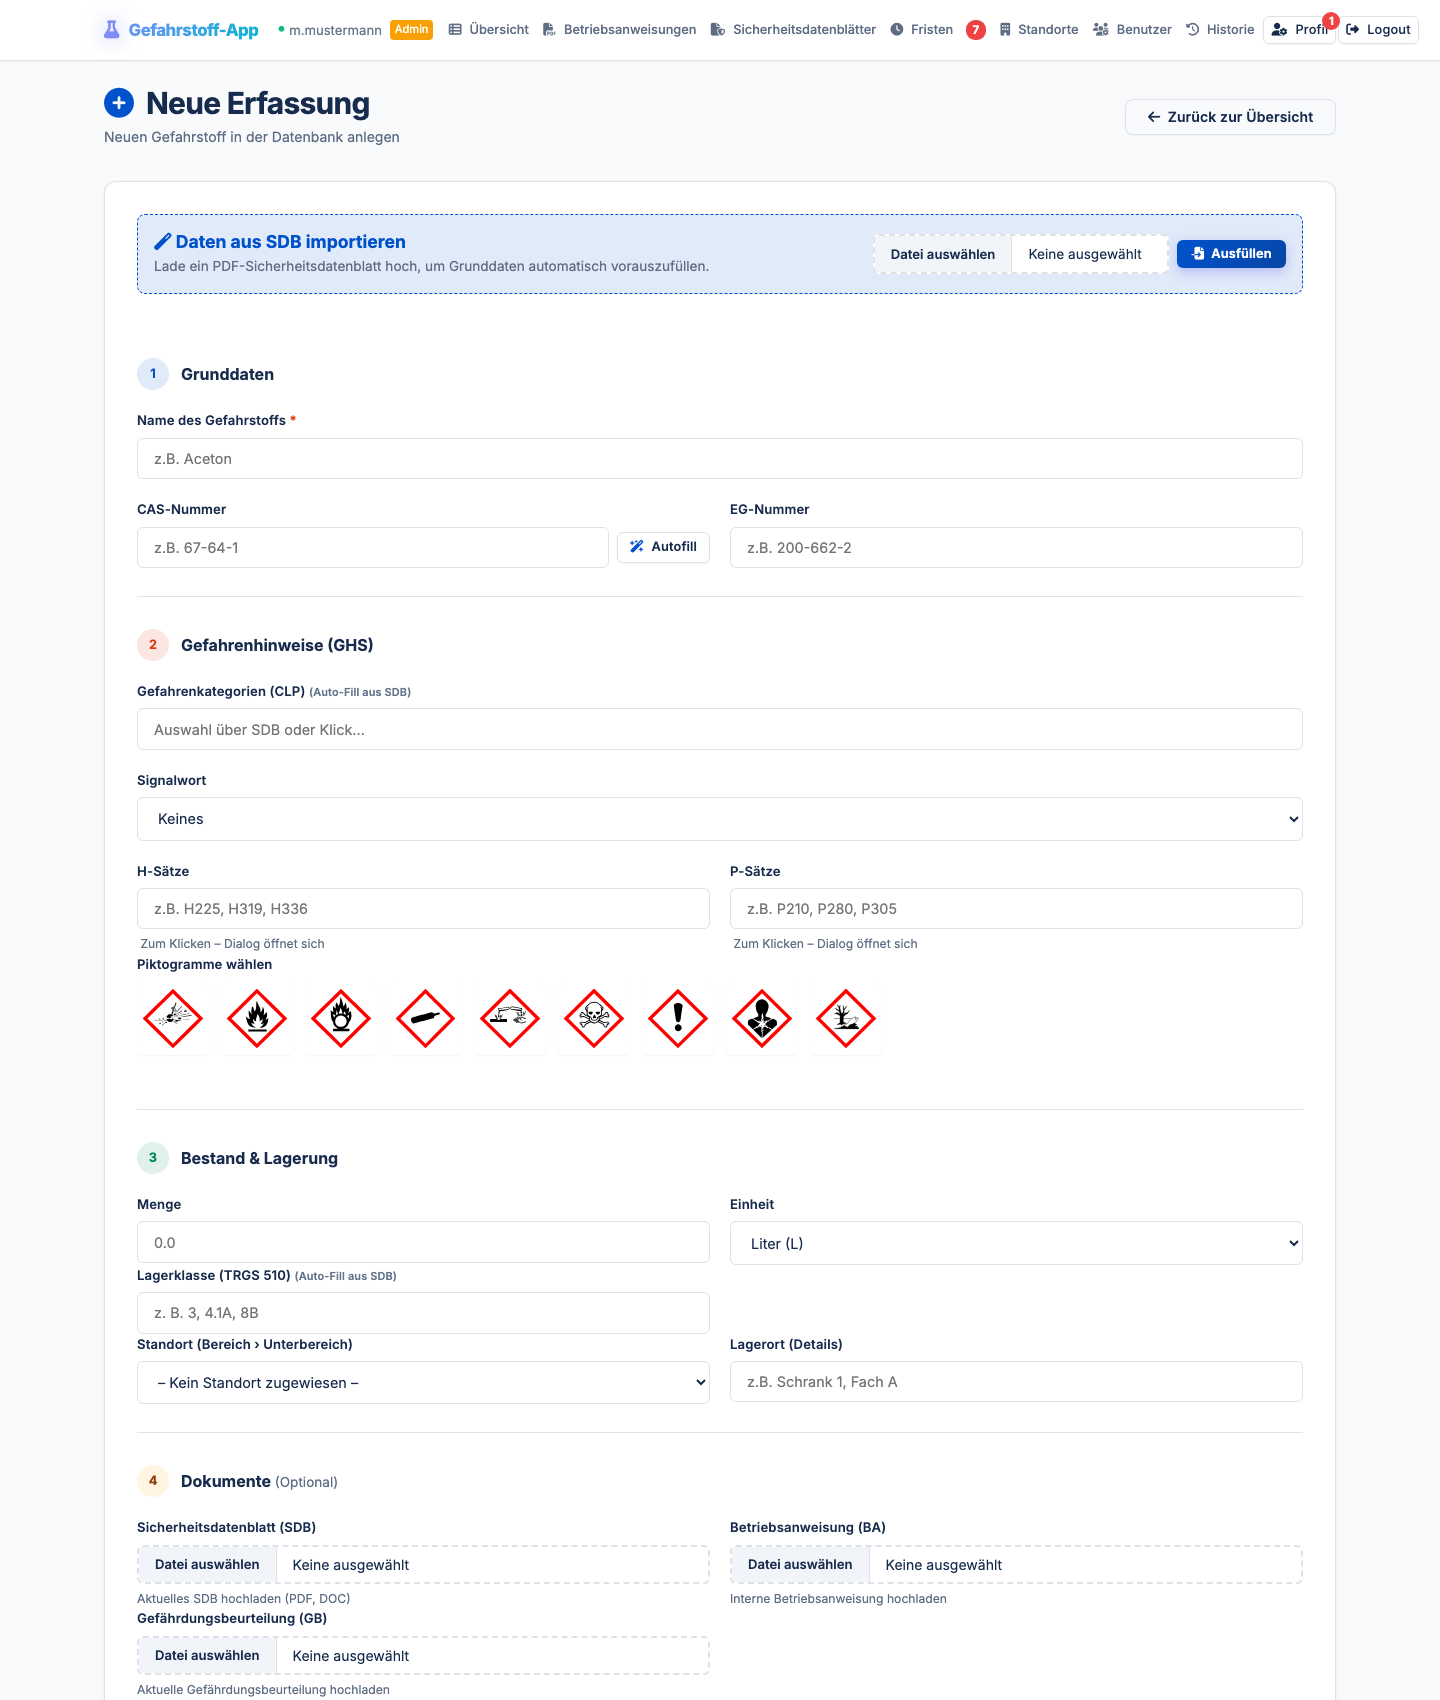
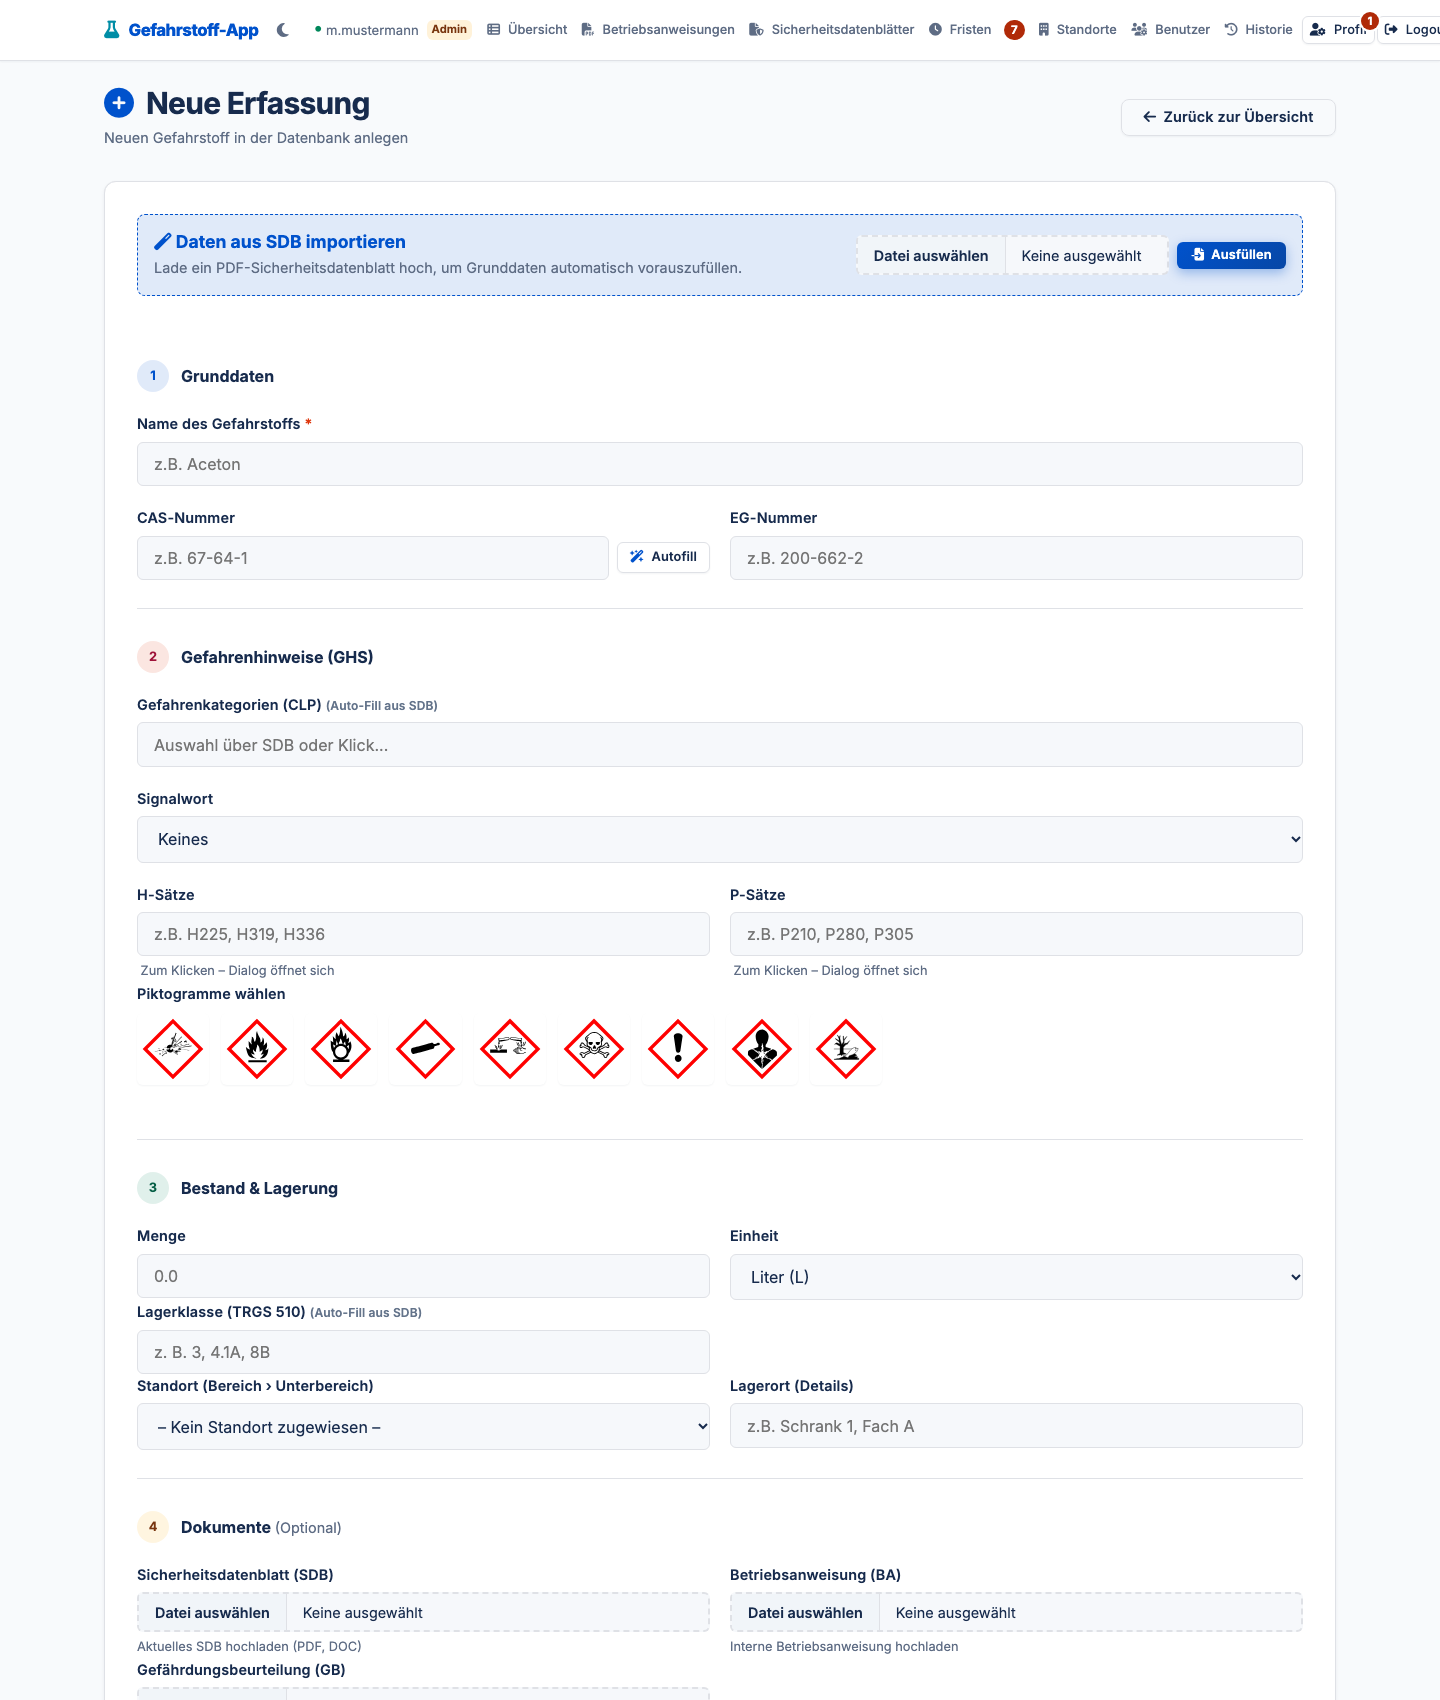
docs: Changelog und Handbuch auf v3.21-v3.23 nachgezogen
Die Arbeit seit v3.20 (27.09.) stand in keiner der beiden Dateien: die drei
Oberflaechen-Stufen und die Aussehens-Runde.

CHANGELOG.md, drei neue Eintraege oben:
- v3.21 Barrierefreiheit und Kohaerenz (Stufen 1+2): Sprungmarke, scope,
  Fokusringe, Tastaturbedienung der Piktogramm-Auswahl, --text-light 2,96:1
  -> 4,55:1; Inline-Stile 445 -> 12, eigene Farbwerte 49 -> 0; dabei vier
  nie definierte CSS-Variablen und die Klassen content-card/glass-card
  gefunden, die still wirkungslos waren.
- v3.22 Informationsarchitektur: eine Kennzahl, Filter- und Ansichtsleiste
  getrennt, eine Hauptaktion, Spaltenauswahl; Fristen-Kachel entfallen.
- v3.23 Aussehens-Runde: umschaltbarer Dunkelmodus (Druckansichten bleiben
  hell), der --primary-Fund des Kontrast-Checks (1,6:1), Zebra-Tabellen,
  aktiver Menuepunkt, 404/500 gestylt, Menue-Schwellen 1340/1750 ->
  1375/1785.

HANDBUCH.md: 3.1 (Dunkelmodus-Knopf, Schwelle 1375), 3.2 (die
Kennzahlen-Beschreibung war veraltet - die Kacheln gibt es nicht mehr),
8.2 (Kachel-Absatz) und die Versionsliste in 18 bis 3.23.

handbuch-bilder/: neu erzeugt - die Bilder zeigten die alte Oberflaeche
(Kachel, drei laute Knoepfe). Das Erzeugungsskript erzwingt jetzt den
Hell-Modus: base.html setzt data-theme per Script, und Headless-Chrome
meldet "dark" - sonst waeren die Handbuchbilder dunkel geworden.
06-betriebsanweisung.png bleibt unveraendert (Printseite).

Belege: 119 Tests gruen, DB-Pruefsumme unveraendert.

diff --git a/werkzeuge/handbuchbilder.py b/werkzeuge/handbuchbilder.py
@@ -23,6 +23,7 @@ Auge identisch. Wer keine solchen Diffs im Repo will, macht die Bilder nur
 dann neu, wenn sich die Oberfläche tatsächlich geändert hat.
 """
 import os
+import re
 import shutil
 import subprocess
 import sys
@@ -237,6 +238,13 @@ def aufnahmen_machen(m, aceton_id, lager_id, arbeitsverzeichnis):
         # Statische Dateien auf file:// umbiegen: die Seite wird aus einer
         # Datei geladen, nicht über den Server, sonst fehlen CSS und Schriften.
         html = antwort.get_data(as_text=True)
+        # Hell-Modus erzwingen. base.html setzt data-theme per Inline-Script aus
+        # localStorage bzw. der Systemvorliebe; Headless-Chrome meldet "dark" -
+        # die Handbuchbilder sollen aber die helle Oberfläche zeigen. Also das
+        # Script entfernen und das Attribut fest auf hell setzen.
+        html = re.sub(r"<script>\s*\(function \(\) \{.*?gsv_theme.*?\}\)\(\);\s*</script>",
+                      '', html, count=1, flags=re.S)
+        html = html.replace('<html lang="de">', '<html lang="de" data-theme="light">')
         html = html.replace('href="/static/', f'href="file://{REPO}/static/')
         html = html.replace('src="/static/', f'src="file://{REPO}/static/')
         quelle = os.path.join(arbeitsverzeichnis, f'{name}.html')

diff --git a/CHANGELOG.md b/CHANGELOG.md
@@ -2,6 +2,32 @@
 
 Alle nennenswerten Änderungen an diesem Projekt werden in dieser Datei dokumentiert.
 
+### v3.23 – Aussehens-Runde: Feinschliff und umschaltbarer Dunkelmodus (Oktober 2026)
+
+* **Der Dunkelmodus ist umschaltbar.** Ein Knopf in der Kopfzeile wechselt zwischen hell und dunkel; die Wahl liegt im Browser (`localStorage`) und übersteht das Neuladen. Ohne eigene Wahl folgt die Anwendung der Systemvorliebe. Der Modus wird **vor** dem Laden gesetzt (Inline-Script als erstes Element im `<head>`) — sonst blitzt beim Öffnen kurz die helle Fassung auf. Die Kopfzeile färbt auch die nativen Bedienelemente mit (Auswahlfelder, Kästchen, Scrollbalken).
+* **⚠ Die Druckansichten bleiben in beiden Modi hell.** Betriebsanweisung, Standortaushang und QR-Aushang sind Ausdrucke mit eigener, vorgegebener Gestaltung. Sie laden das Anwendungs-Stylesheet nicht und haben keinen Zugriff auf den Umschalter — das ist so gewollt.
+* **⚠ Ein Fund des Kontrast-Checks:** Das Blau der Anwendung (`--primary`) diente zugleich als Füllfarbe der Knöpfe und als Text- und Symbolfarbe. Im Dunkelmodus war der Text darauf **1,6:1** — praktisch unlesbar (der aktive Menüpunkt, das Öffnen-Symbol der Dokumentenlisten). Text und Rahmen zeigen jetzt auf ein eigenes Token, das im Dunkelmodus hell wird; die Füllung bleibt dunkel, damit weiße Knopfschrift lesbar bleibt.
+* **Zwei sichtbare Fehler behoben:** Der Zusammenlagerungshinweis in der Detailansicht stand als **Zeile** — Titel und Aufzählung nebeneinander statt untereinander. Und `--bg-subtle` war weiß wie eine Karte, sodass ein halbes Dutzend „getönter" Flächen unsichtbar war (Hinweisstreifen, die Kachel des aktiven Ansichtsknopfes, die Chips „zugewiesener Bereich"). Eine Glocke im Profil stand auf einer Klasse, die es nie gab.
+* **Feinschliff:** Tabellen haben ein Zebra-Muster, der aktuelle Menüpunkt ist markiert, ein deaktivierter Knopf sieht inaktiv aus. Die 404- und 500-Seite waren ungestyltes Fremd-Markup (Bootstrap-Klassen, die es im Projekt nirgends gibt und deren Icon-Schrift gar nicht geladen wird) und sind jetzt normale Leerzustände.
+* **⚠ Zwei Menü-Schwellen verschoben.** Der neue Knopf kostet rund 40 px in der Kopfzeile. Ohne Anpassung lief die Navigation bei 1340 und 1751 px über den Rand; die Schwellen stehen jetzt bei **1375 und 1785 px** (vorher 1340/1750).
+* **Aufgeräumt:** sieben nie benutzte oder doppelte Farbvariablen entfernt. `--info`, `--info-light` und `--gold` waren wertgleich mit einem Nachbarn — semantisch Verschiedenes sah dadurch identisch aus (zwei Abzeichentypen unterschieden sich nur im Namen).
+* **Nachgemessen:** kein waagerechter Überlauf von 320 bis 1920 px, auch an den neuen Schwellen; Kontrast im Dunkelmodus durchweg über 4,5:1; 119 Tests grün, Prüfsumme der Datenbank unverändert.
+
+### v3.22 – Informationsarchitektur der Startseite (Oktober 2026)
+
+* **Die Startseite wurde entzerrt.** Aus drei Kennzahl-Kacheln wurde **eine** — die anderen wiederholten nur, was die Kopfzeile ohnehin zeigt; „Standorte" war zudem falsch beschriftet (es zählte die *belegten* Unterbereiche). Die Zahlen stehen jetzt in der Unterzeile des Seitentitels.
+* **Filter und Ansicht getrennt:** Die Filter stehen links, die Ansichtssteuerung (Tabelle/Kacheln, Spaltenauswahl) rechts. Vorher war es umgekehrt — der Umschalter filtert nichts.
+* **Eine Hauptaktion:** Im Kopfbereich ist „Neuer Gefahrstoff" der einzige kräftige Knopf; Excel und PDF sind neutrale Umrissknöpfe geworden. Drei gleich laute Knöpfe sind keiner.
+* **Spaltenauswahl:** Sechs Spalten der Übersichtstabelle lassen sich ausblenden; „Name" bleibt immer sichtbar, weil sie den Link trägt. Die Wahl wird im Browser gemerkt. Damit lässt sich die Tabelle auch unter 1280 px ohne waagerechtes Scrollen lesen — bei 1000 px Breite geht der Überlauf von 156 auf 0 px.
+* **Die Fristen-Kachel ist wieder entfallen.** Sie führte zur Fristenliste, die als Menüpunkt in der Kopfzeile (mit Zähler) ohnehin erreichbar ist. Damit steht die Fristenzahl wieder an genau einer Stelle. (Der zugehörige Test prüft jetzt die Liste allein.)
+
+### v3.21 – Barrierefreiheit und Kohärenz der Oberfläche (September–Oktober 2026)
+
+* **Bedienbarkeit:** Sprungmarke „Zum Inhalt springen" als erstes Element, `scope="col"` an allen Tabellenköpfen, sichtbare Fokusringe für die Tastaturbedienung (`:focus-visible`), eine versteckte Beschriftung an jeder Tabelle. Die Piktogramm-Auswahl war mit der Tastatur **nicht** bedienbar (die Kästchen waren auf Größe 0 gesetzt) und ist es jetzt. Beschriftungen für Such- und Filterfelder. `--text-light` erreichte auf dem Seitengrund nur 2,96:1 und war als Text zu blass; es steht jetzt bei 4,55:1.
+* **Kohärenz:** Alle 14 Seiten von Inline-Stilen auf Klassen und Farbvariablen umgestellt — **445 → 12** (die verbliebenen sind Absicht: sie schalten `display` per JavaScript). Eigene Farbwerte in App-Seiten: **49 → 0**. Dreizehn Schriftgrößen wurden auf drei Stufen vereinheitlicht (der Tabellenkopf war mit 11,2 px zu klein).
+* **Dabei gefunden:** vier nie definierte Farbvariablen (`--dark`, `--glass-border`, `--bg-color`, `--text`) und mehrere nie definierte Klassen (`.content-card`, `.glass-card`, `.form-control`). Solche Deklarationen sind ungültig und fallen still weg — die Systemansicht stand dadurch als einzige Seite ohne Kartengestaltung auf dem Seitenhintergrund. Ebenso fehlten den Eingabetypen `date` und `url` in der globalen Feldregel, weshalb Datumsfelder im Browser-Standard erschienen.
+* **Nachgemessen:** kein waagerechter Überlauf von 320 bis 1920 px (vorher 125 px zwischen 320 und 600 px), für Admin- und Leser-Rolle getrennt.
+
 ### v3.20 – Produktionsserver in beiden Startwegen, Debugger standardmäßig aus (September 2026)
 
 * **⚠ Der Container startete den Entwicklungsserver.** `docker-entrypoint.sh` endete mit `exec flask run --host=0.0.0.0 --port=5000` — dem eingebauten Server von Flask. Waitress lag mit `run_prod.py` bereit, wurde aber von **keinem** Startweg aufgerufen. Beide zeigen jetzt dorthin: der Container über `exec python run_prod.py`, die native Aktualisierung (`update.sh`) über `FLASK_ENV=production nohup python run_prod.py`.

diff --git a/HANDBUCH.md b/HANDBUCH.md
@@ -76,19 +76,28 @@ ab:
 | **Historie** | Systemhistorie (nur Administrator) |
 | **Profil** | Eigenes Passwort, offene Freigaben |
 
-Auf schmalen Bildschirmen — auf dem Tablet oder Telefon unter etwa 1340 Pixel —
+Auf schmalen Bildschirmen — auf dem Tablet oder Telefon unter etwa 1375 Pixel —
 klappt die Navigation zu einem Menüknopf zusammen.
+
+**Hell und dunkel:** Rechts in der Kopfzeile sitzt ein kleiner Knopf mit einem
+Mond- (oder Sonnen-)Symbol. Er schaltet die Oberfläche zwischen der hellen und
+der dunklen Darstellung um; die Wahl wird im Browser gemerkt. Ohne eigene Wahl
+folgt die Anwendung der Einstellung Ihres Betriebssystems. **Ausdrucke sind
+davon nicht betroffen** — die Betriebsanweisung und der Standortaushang werden
+immer hell gedruckt.
 
 ### 3.2 Das Dashboard
 
-* **Kennzahlen:** Anzahl Gefahrstoffe, Anzahl Standorte und *veraltete SDBs*.
-  Die dritte Kachel ist anklickbar und führt zur Fristenliste.
+* **Kopfzeile:** Unter dem Seitentitel stehen die Zahl der Gefahrstoffe und die
+  Zahl der *belegten* Standorte. Die fälligen Fristen stehen im Menüpunkt
+  **Fristen** (mit Zähler) und in der Fristenliste.
 * **Standort-Spalte links:** die Hierarchie Ihrer Bereiche. Ein Klick filtert die
   Tabelle auf diesen Standort.
 * **Suche und Filter:** Suchfeld (Name, CAS-Nummer, H-Sätze), Filter nach
   Signalwort und Piktogrammen.
 * **Zwei Ansichten:** Tabelle (Liste) und Kacheln — die Wahl wird im Browser
-  gemerkt.
+  gemerkt. In der Tabellenansicht lassen sich über **Spalten** einzelne Spalten
+  ausblenden; der Name bleibt immer sichtbar.
 * **Export:** Die **gefilterte** Ansicht als Excel-Tabelle oder PDF.
 
 ### 3.3 Was Sie sehen — und was nicht
@@ -336,10 +345,11 @@ Verzeichnis unbrauchbar. Die Zahl steht unter der Substitutions-Kachel
 („12 noch nie geprüft") und zählt **nicht** in die Kachelzahl hinein — diese
 bleibt die Zahl der Zeilen, damit Kachel und Liste zusammenpassen.
 
-Die Kachel **„Veraltete SDBs"** auf dem Dashboard zählt nur die veralteten
-Sicherheitsdatenblätter. Oben auf der Fristenseite stehen zusätzlich die
-fehlenden Dokumente, die offenen Substitutionsprüfungen und die fälligen
-Inventuren.
+Die Kachel **„Veraltete SDBs"** auf dem Dashboard ist entfallen — die Fristen
+stehen als Menüpunkt in der Kopfzeile (mit Zähler). Oben auf der Fristenseite
+stehen die veralteten Sicherheitsdatenblätter, die fehlenden Dokumente, die
+offenen Substitutionsprüfungen und die fälligen Inventuren, jeweils als Kachel
+mit der Zahl der Zeilen.
 
 ### 8.3 Woher die Intervalle kommen — bitte genau lesen
 
@@ -544,7 +554,7 @@ Weil „noch nie geprüft" als Zahl geführt wird, nicht als Zeile
 Nein. Ändern ja (Abschnitt 2.3), zurücksetzen muss ein Administrator.
 
 **Warum ist die Schrift im Menü kleiner als sonst?**
-Auf Bildschirmen zwischen 1340 und 1750 Pixel verdichtet die Anwendung die
+Auf Bildschirmen zwischen 1375 und 1785 Pixel verdichtet die Anwendung die
 Navigation, damit sie ohne Umbruch passt. Darunter klappt sie zum Menüknopf
 zusammen.
 
@@ -576,8 +586,11 @@ Diese Anwendung wird laufend weiterentwickelt. Die vollständige Änderungsliste
 steht in `CHANGELOG.md`; die Datenschutz-Dokumentation in
 `DATENSCHUTZ_UND_TOM.md`.
 
-**Die wichtigsten Schritte bis Version 3.20:**
+**Die wichtigsten Schritte bis Version 3.23:**
 
+* **v3.23** — *Aussehen:* umschaltbarer Dunkelmodus, Zebra-Tabellen, sichtbarer Feinschliff (Ausdrucke bleiben hell)
+* **v3.22** — Startseite entzerrt: eine Kennzahl, Filter- und Ansichtsleiste getrennt, eine Hauptaktion, Spaltenauswahl
+* **v3.21** — Barrierefreiheit (Tastatur, Vorleseprogramme) und eine einheitliche Gestaltungssprache (Inline-Stile 445 → 12, eigene Farbwerte 49 → 0)
 * **v3.20** — *Betrieb, nicht Bedienung:* Anwendungsserver auf Waitress umgestellt, interaktiver Debugger standardmäßig aus
 * **v3.19** — Substitutionsprüfung als Frist (Feld „Zuletzt geprüft am")
 * **v3.18** — Fristenseite als Arbeitsliste; Kennzahlen und Listen aus einer Regel
